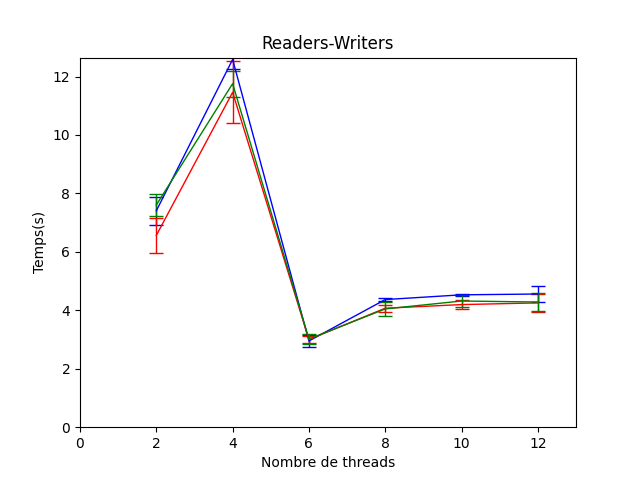
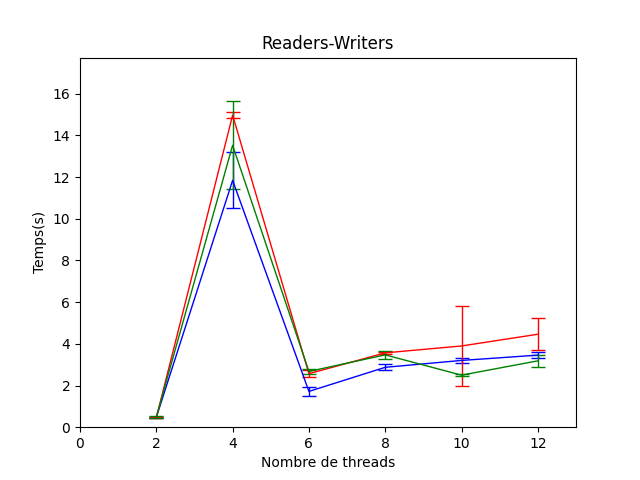
ReadGraph

diff --git a/Projet sys info/Tache1/ReadWrite.c b/Projet sys info/Tache1/ReadWrite.c
@@ -18,18 +18,13 @@ int writing_nb = 640;
 int reading_nb = 2560;
 
 
-void write_database(){
-}
-void read_database(){
-}
+
 void waste_time(){
   while(rand() > RAND_MAX/10000);
 }
 
 void writer(void){
-  while(true){
-    waste_time();
-    
+  while(true){ 
     pthread_mutex_lock(&mutex_writecount);
 
     if(writing_nb <= 0){
@@ -42,7 +37,7 @@ void writer(void){
     pthread_mutex_unlock(&mutex_writecount);
 
     sem_wait(&db);
-    write_database();
+    waste_time();
     sem_post(&db);
 
     pthread_mutex_lock(&mutex_writecount);
@@ -68,7 +63,7 @@ void reader(void){
       sem_wait(&db);}
 
     pthread_mutex_unlock(&mutex_readcount);
-    read_database();
+    waste_time();
     pthread_mutex_lock(&mutex_readcount);
 
     readcount--;
@@ -76,8 +71,6 @@ void reader(void){
       sem_post(&db);}
 
     pthread_mutex_unlock(&mutex_readcount);
-    
-    waste_time();
   }
 }
 

diff --git a/Projet sys info/Tache2/ReadWriteaa_tatas.c b/Projet sys info/Tache2/ReadWriteaa_tatas.c
@@ -18,18 +18,13 @@ int writing_nb = 640;
 int reading_nb = 2560;
 
 
-void write_database(){
-}
-void read_database(){
-}
+
 void waste_time(){
   while(rand() > RAND_MAX/10000);
 }
 
 void writer(void){
   while(true){
-    waste_time();
-    
     my_lock_tatas(&mutex_writecount);
 
     if(writing_nb <= 0){
@@ -42,7 +37,7 @@ void writer(void){
     my_unlock(&mutex_writecount);
 
     my_sem_wait_tatas(&db);
-    write_database();
+    waste_time();
     my_sem_post_tatas(&db);
 
     my_lock_tatas(&mutex_writecount);
@@ -68,7 +63,7 @@ void reader(void){
       my_sem_wait_tatas(&db);}
 
     my_unlock(&mutex_readcount);
-    read_database();
+    waste_time();
     my_lock_tatas(&mutex_readcount);
 
     readcount--;
@@ -76,8 +71,6 @@ void reader(void){
       my_sem_post_tatas(&db);}
 
     my_unlock(&mutex_readcount);
-    
-    waste_time();
   }
 }
 

diff --git a/Projet sys info/Tache2/ReadWriteaa.c b/Projet sys info/Tache2/ReadWriteaa.c
@@ -18,18 +18,12 @@ int writing_nb = 640;
 int reading_nb = 2560;
 
 
-void write_database(){
-}
-void read_database(){
-}
 void waste_time(){
   while(rand() > RAND_MAX/10000);
 }
 
 void writer(void){
   while(true){
-    waste_time();
-    
     my_lock(&mutex_writecount);
 
     if(writing_nb <= 0){
@@ -42,7 +36,7 @@ void writer(void){
     my_unlock(&mutex_writecount);
 
     my_sem_wait(&db);
-    write_database();
+    waste_time();
     my_sem_post(&db);
 
     my_lock(&mutex_writecount);
@@ -68,7 +62,7 @@ void reader(void){
       my_sem_wait(&db);}
 
     my_unlock(&mutex_readcount);
-    read_database();
+    waste_time();
     my_lock(&mutex_readcount);
 
     readcount--;
@@ -76,8 +70,6 @@ void reader(void){
       my_sem_post(&db);}
 
     my_unlock(&mutex_readcount);
-    
-    waste_time();
   }
 }
 
